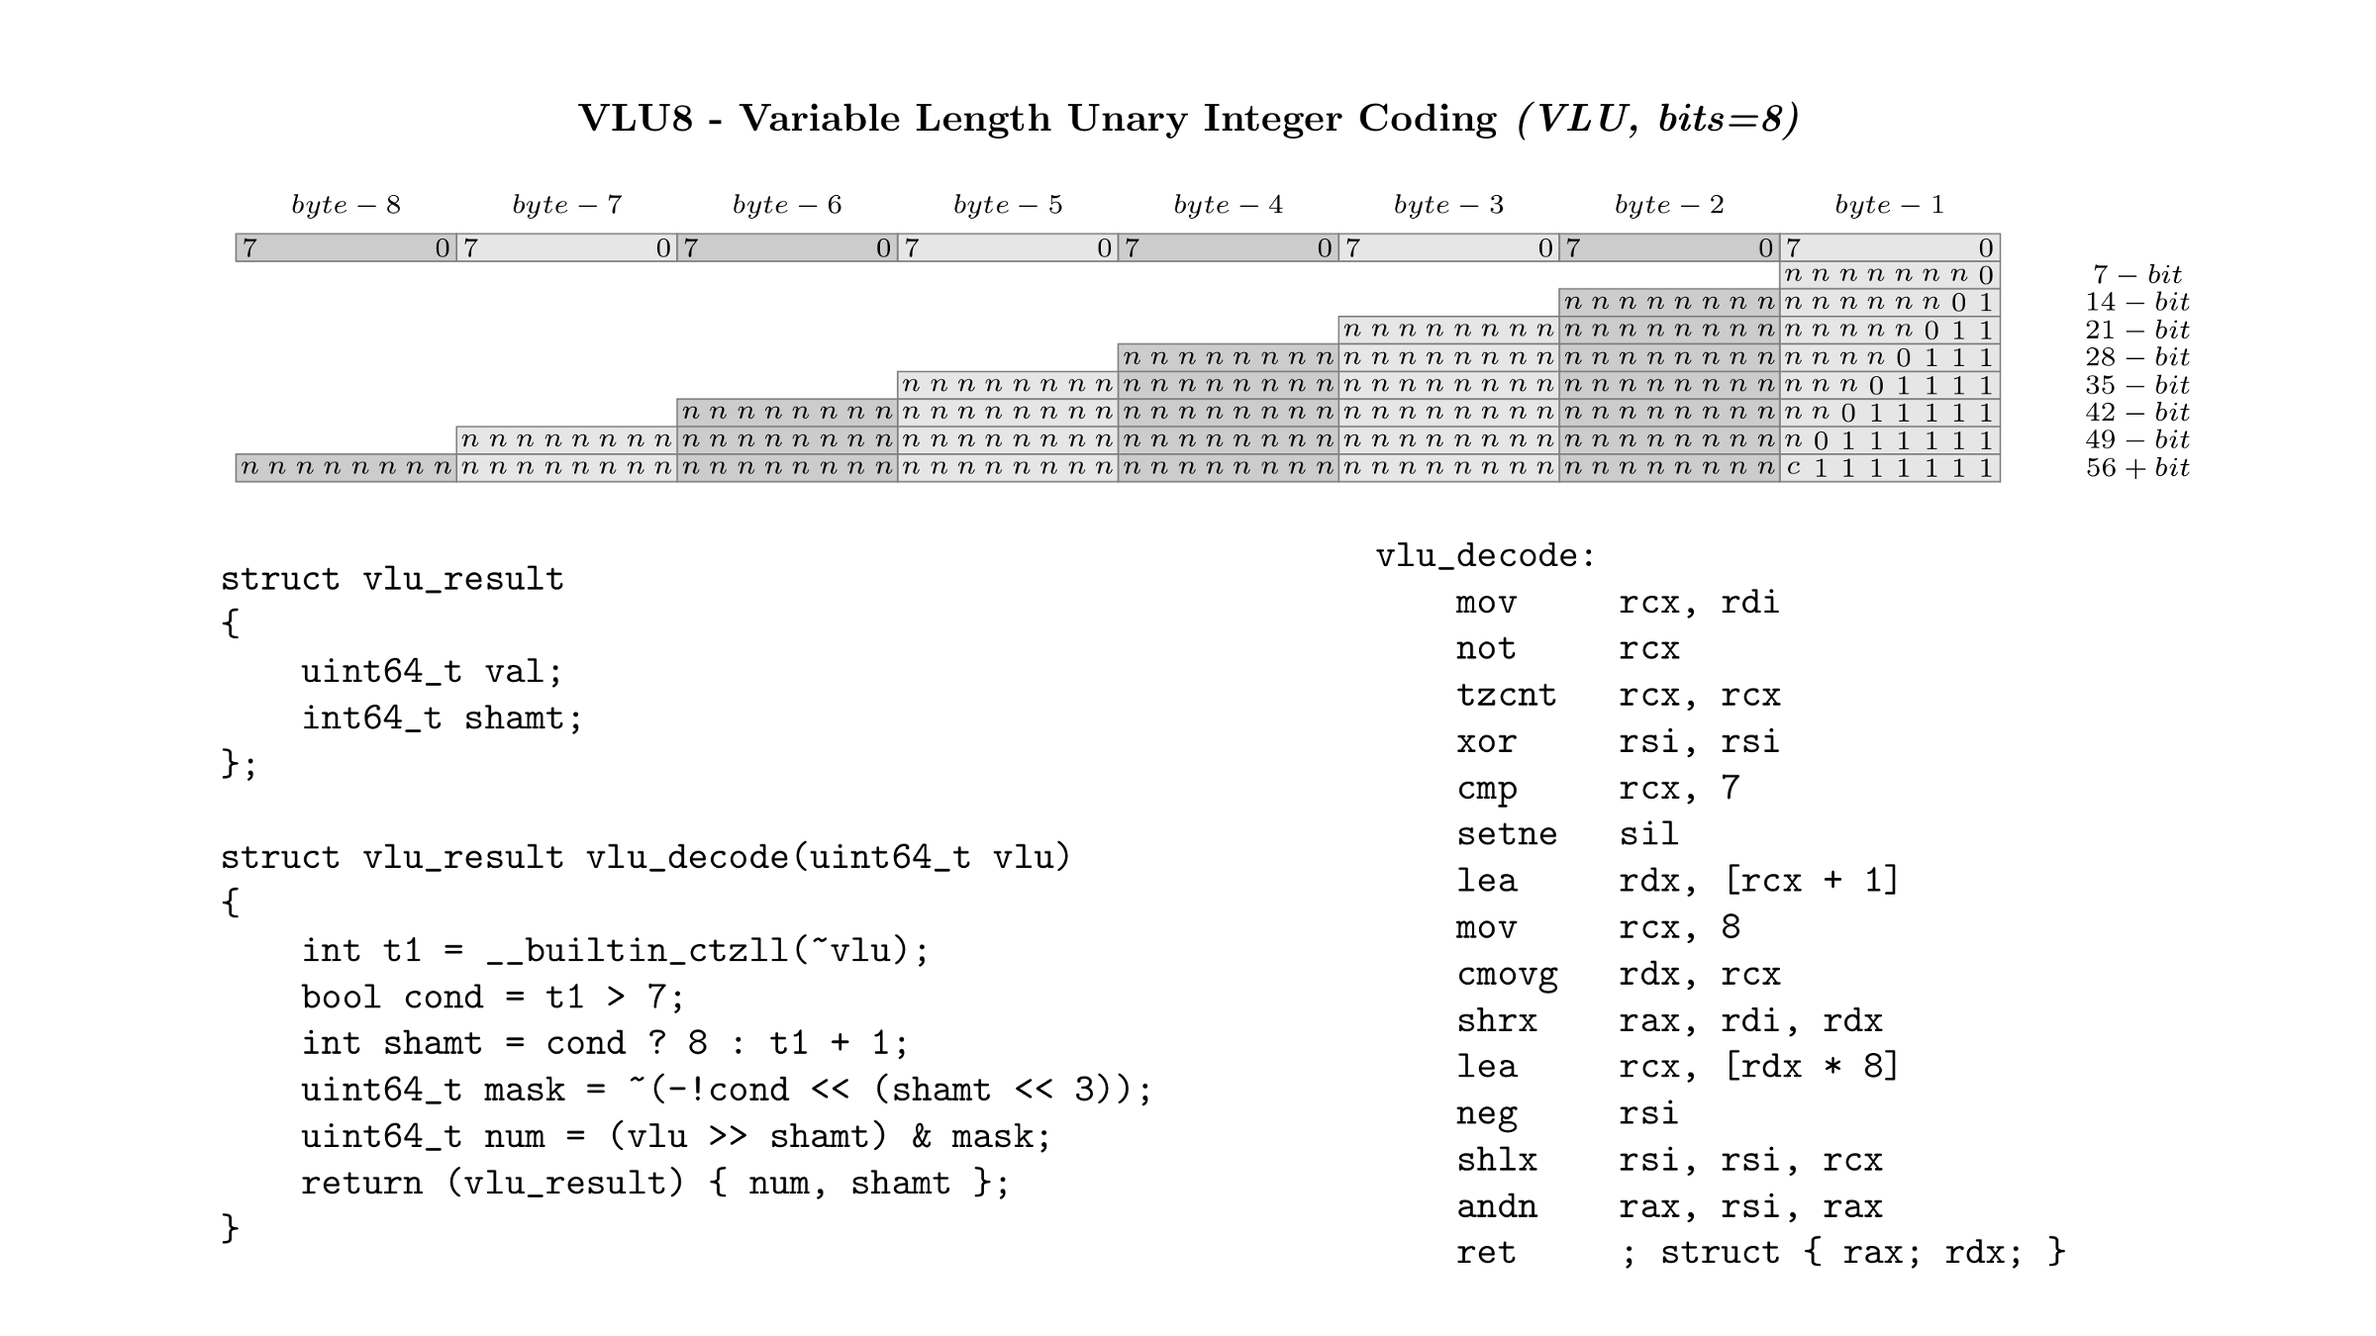
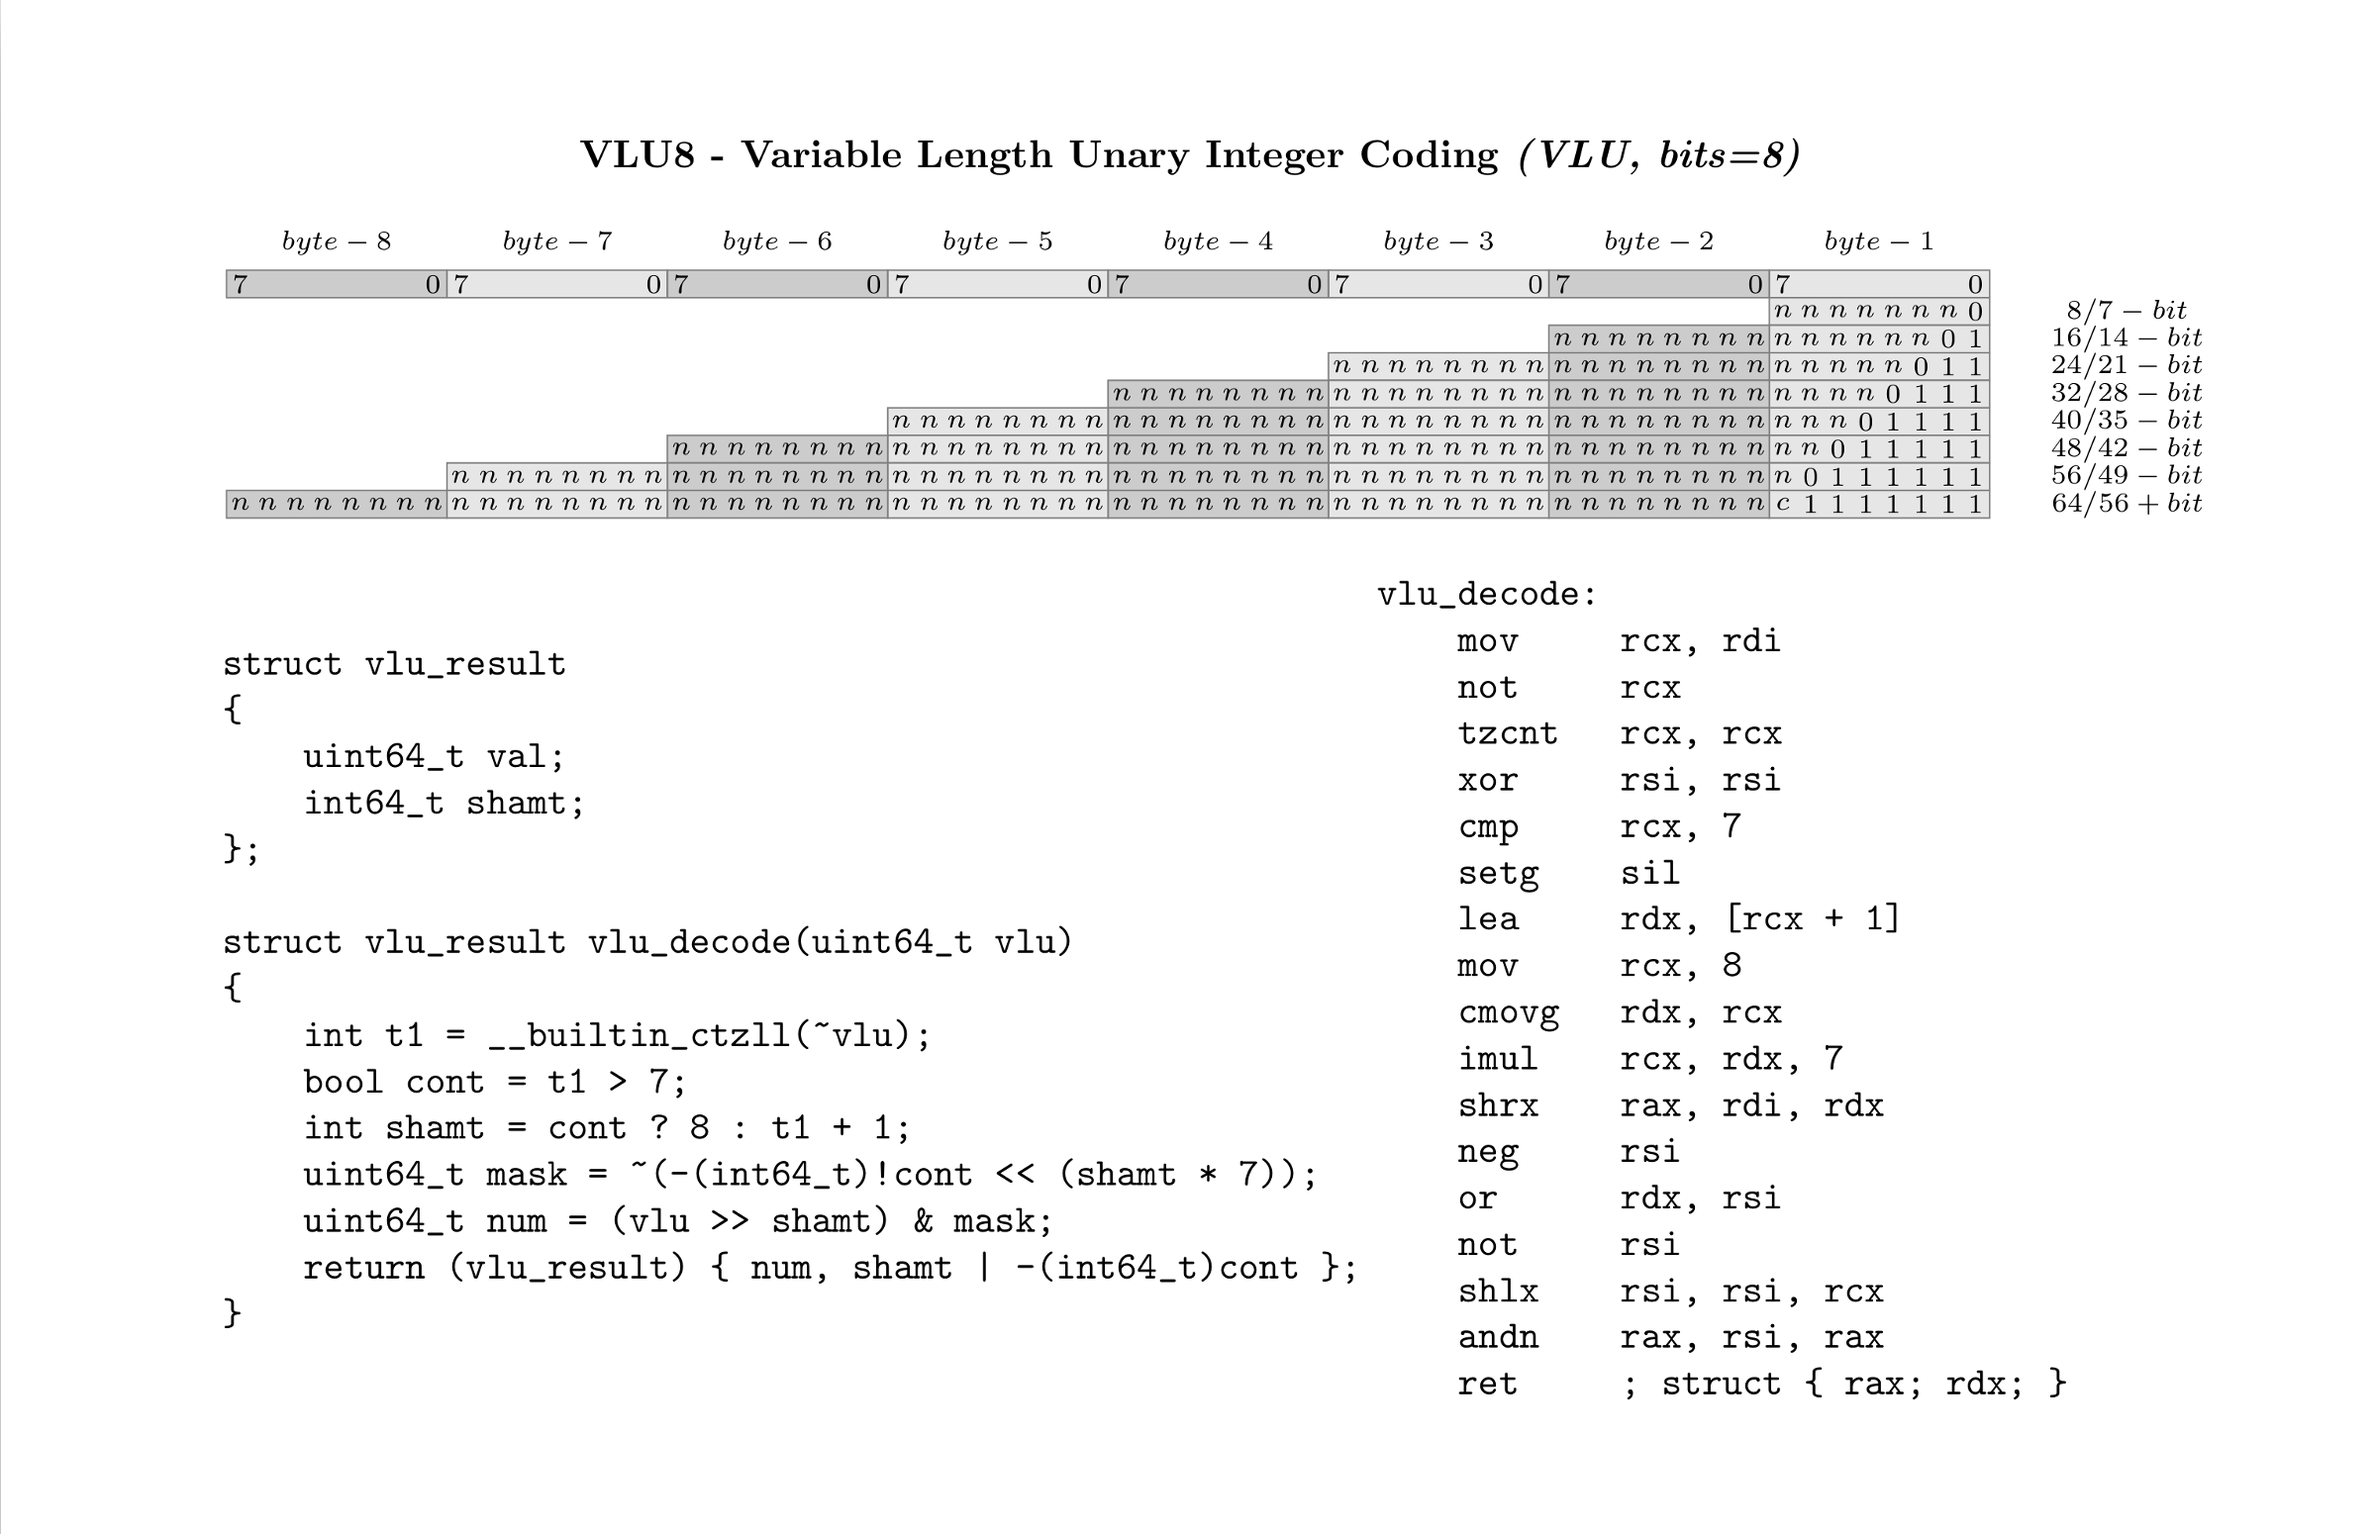
Update benchmarks chart, table and data for vlu_encode_56c changes

diff --git a/scripts/vlu-figure.py b/scripts/vlu-figure.py
@@ -81,11 +81,11 @@ with open('vlu-figure.tex', 'w') as fp:
     struct vlu_result vlu_decode(uint64_t vlu)
     {
         int t1 = __builtin_ctzll(~vlu);
-        bool cond = t1 > 7;
-        int shamt = cond ? 8 : t1 + 1;
-        uint64_t mask = ~(-!cond << (shamt << 3));
+        bool cont = t1 > 7;
+        int shamt = cont ? 8 : t1 + 1;
+        uint64_t mask = ~(-(int64_t)!cont << (shamt * 7));
         uint64_t num = (vlu >> shamt) & mask;
-        return (vlu_result) { num, shamt };
+        return (vlu_result) { num, shamt | -(int64_t)cont };
     }
     \\end{verbatim}
     \\end{minipage}\\hfill
@@ -97,13 +97,15 @@ with open('vlu-figure.tex', 'w') as fp:
         tzcnt   rcx, rcx
         xor     rsi, rsi
         cmp     rcx, 7
-        setne   sil
+        setg    sil
         lea     rdx, [rcx + 1]
         mov     rcx, 8
         cmovg   rdx, rcx
+        imul    rcx, rdx, 7
         shrx    rax, rdi, rdx
-        lea     rcx, [rdx * 8]
         neg     rsi
+        or      rdx, rsi
+        not     rsi
         shlx    rsi, rsi, rcx
         andn    rax, rsi, rax
         ret     ; struct { rax; rdx; }

diff --git a/data/benchmarks.md b/data/benchmarks.md
@@ -13,18 +13,18 @@
 |LEB_56-pack decode (random-8)   |1048576   |1000      |8000      |8635058   |    0.905 |
 |LEB_56-pack decode (random-56)  |1048576   |1000      |8000      |51904571  |    0.151 |
 |LEB_56-pack decode (random-mix) |1048576   |1000      |8000      |27653531  |    0.283 |
-|VLU_56-raw encode (random-8)    |1048576   |1000      |8000      |2306010   |    3.388 |
-|VLU_56-raw encode (random-56)   |1048576   |1000      |8000      |2293770   |    3.406 |
-|VLU_56-raw encode (random-mix)  |1048576   |1000      |8000      |2787423   |    2.803 |
-|VLU_56-raw decode (random-8)    |1048576   |1000      |8000      |1172606   |    6.663 |
-|VLU_56-raw decode (random-56)   |1048576   |1000      |8000      |1173389   |    6.658 |
-|VLU_56-raw decode (random-mix)  |1048576   |1000      |8000      |1175671   |    6.645 |
-|VLU_56-pack encode (random-8)   |1048576   |1000      |8000      |8027188   |    0.973 |
-|VLU_56-pack encode (random-56)  |1048576   |1000      |8000      |4437156   |    1.761 |
-|VLU_56-pack encode (random-mix) |1048576   |1000      |8000      |10380497  |    0.753 |
-|VLU_56-pack decode (random-8)   |1048576   |1000      |8000      |5963904   |    1.310 |
-|VLU_56-pack decode (random-56)  |1048576   |1000      |8000      |5871004   |    1.331 |
-|VLU_56-pack decode (random-mix) |1048576   |1000      |8000      |5990512   |    1.304 |
+|VLU_56-raw encode (random-8)    |1048576   |1000      |8000      |2481044   |    3.149 |
+|VLU_56-raw encode (random-56)   |1048576   |1000      |8000      |2463037   |    3.172 |
+|VLU_56-raw encode (random-mix)  |1048576   |1000      |8000      |2889525   |    2.704 |
+|VLU_56-raw decode (random-8)    |1048576   |1000      |8000      |1485800   |    5.258 |
+|VLU_56-raw decode (random-56)   |1048576   |1000      |8000      |1494834   |    5.226 |
+|VLU_56-raw decode (random-mix)  |1048576   |1000      |8000      |1516157   |    5.153 |
+|VLU_56-pack encode (random-8)   |1048576   |1000      |8000      |8688817   |    0.899 |
+|VLU_56-pack encode (random-56)  |1048576   |1000      |8000      |4705742   |    1.660 |
+|VLU_56-pack encode (random-mix) |1048576   |1000      |8000      |10984168  |    0.711 |
+|VLU_56-pack decode (random-8)   |1048576   |1000      |8000      |6318240   |    1.236 |
+|VLU_56-pack decode (random-56)  |1048576   |1000      |8000      |6314234   |    1.237 |
+|VLU_56-pack decode (random-mix) |1048576   |1000      |8000      |6391206   |    1.222 |
 |snprintf/10 encode (random-8)   |1048576   |1000      |8000      |49647433  |    0.157 |
 |snprintf/10 encode (random-56)  |1048576   |1000      |8000      |62734285  |    0.125 |
 |snprintf/10 encode (random-mix) |1048576   |1000      |8000      |61909451  |    0.126 |

diff --git a/README.md b/README.md
@@ -104,8 +104,8 @@ _Figure 2: VLU8 Benchmarks (GiB/sec)_
 |:---------------------------|-------------------:|-------------------:|-------------------:|-------------------:|-------------------:|-------------------:|
 |LEB&#8209;56&#8209;raw      |2.101               |1.475               |0.979               |2.05                |1.817               |1.071               |
 |LEB&#8209;56&#8209;pack     |1.316               |1.055               |0.682               |0.905               |0.151               |0.283               |
-|VLU&#8209;56&#8209;raw      |3.388               |3.406               |2.803               |6.663               |6.658               |6.645               |
-|VLU&#8209;56&#8209;pack     |0.973               |1.761               |0.753               |1.31                |1.331               |1.304               |
+|VLU&#8209;56&#8209;raw      |3.149               |3.172               |2.704               |5.258               |5.226               |5.153               |
+|VLU&#8209;56&#8209;pack     |0.899               |1.66                |0.711               |1.236               |1.237               |1.222               |
 |snprintf/10                 |0.157               |0.125               |0.126               |0.644               |0.315               |0.357               |
 |snprintf/16                 |0.173               |0.14                |0.143               |0.585               |0.127               |0.212               |
 
